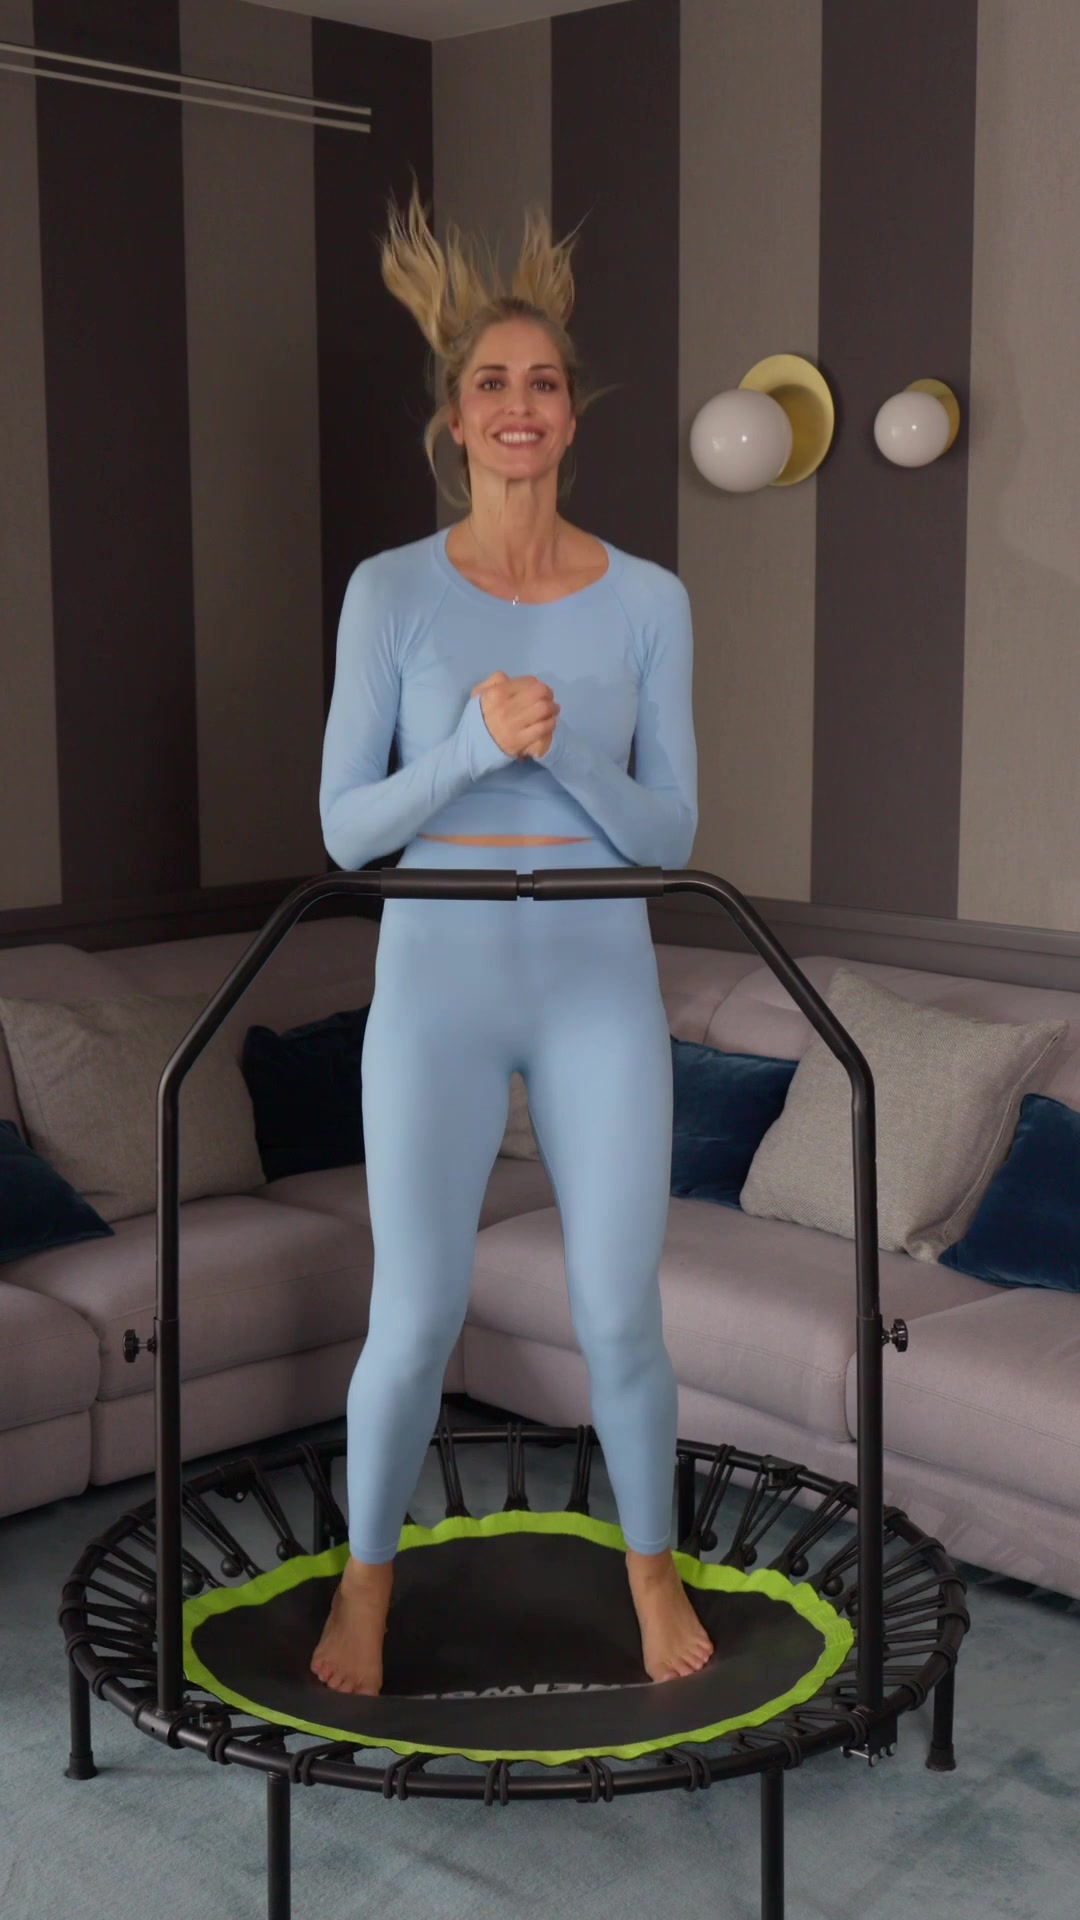
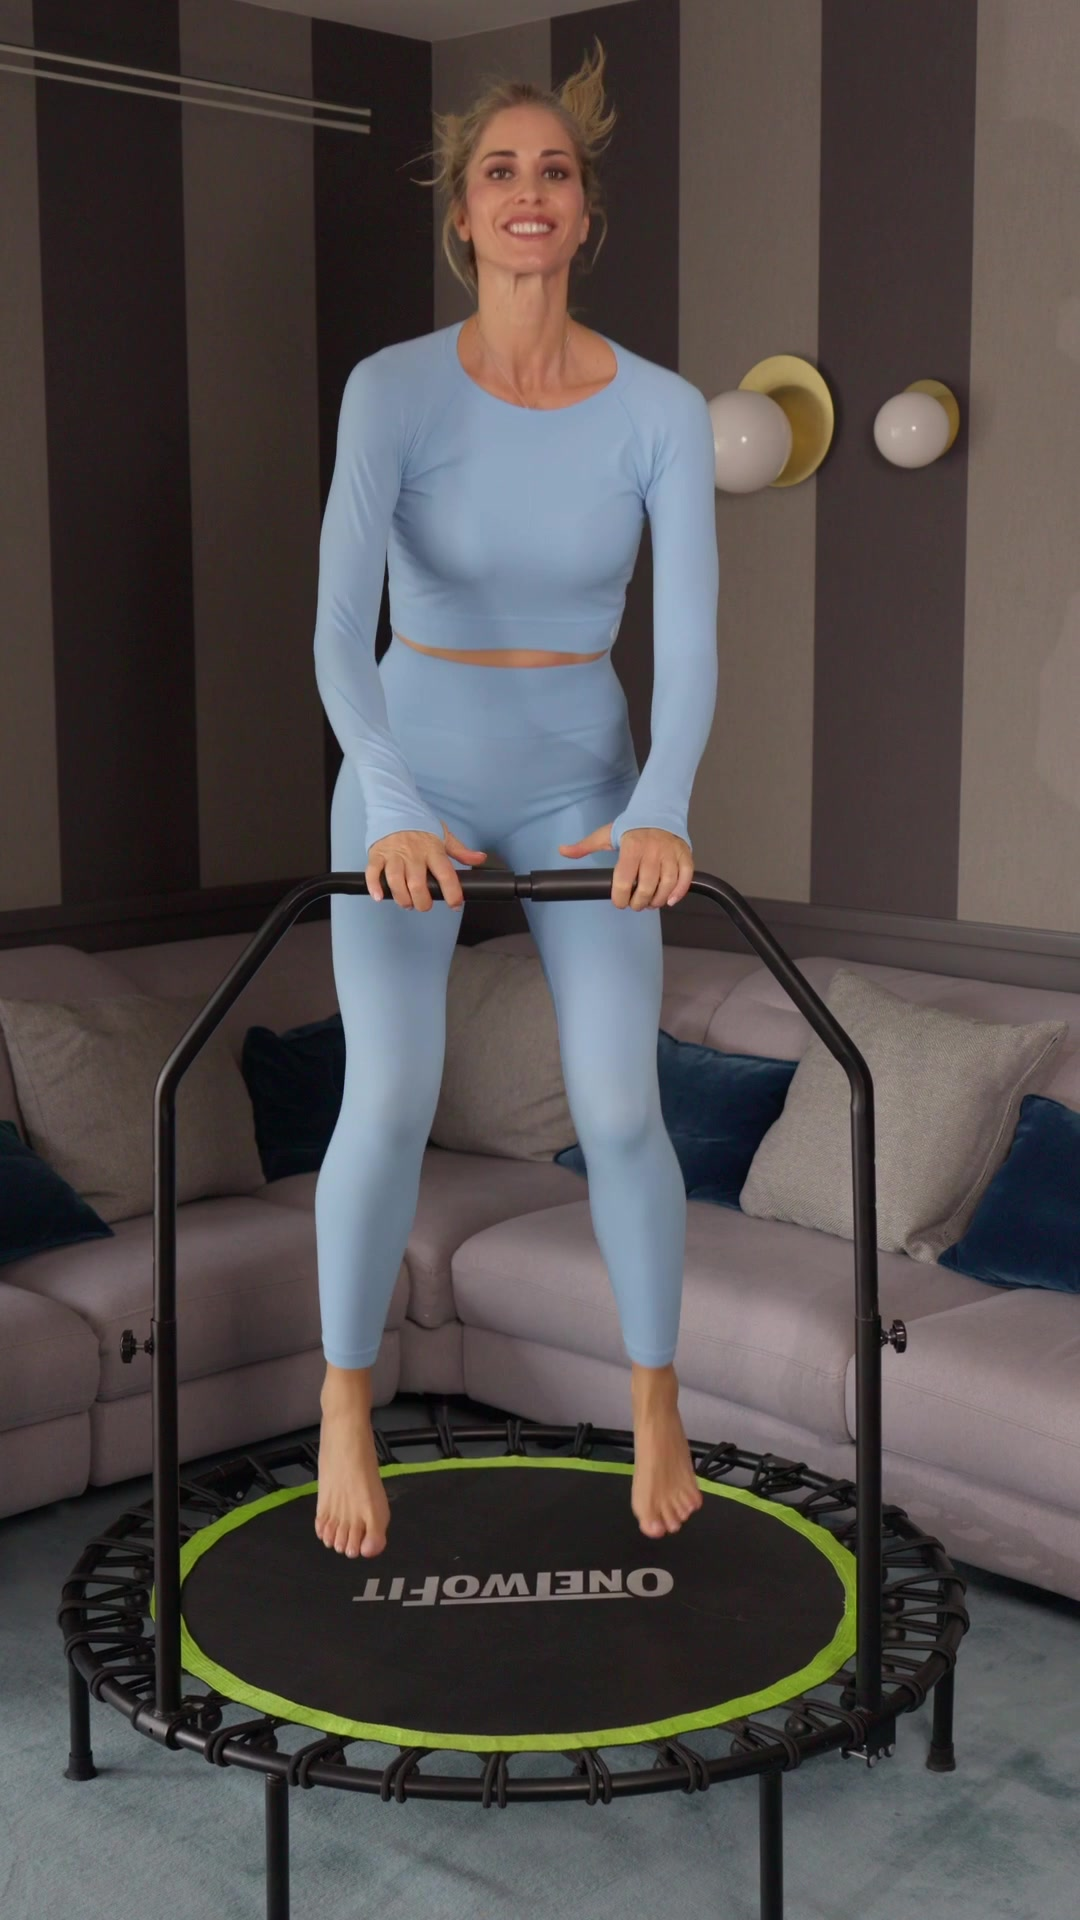
Cover: calmer frame, keep head inside grid crop; add blurred variant
Claude-Session: https://claude.ai/code/session_01RdyXZ9bSvZ2ZadRpYyWp9J

diff --git a/src/TrampolinoReel/Cover.tsx b/src/TrampolinoReel/Cover.tsx
@@ -8,13 +8,40 @@ const SHADOW =
 // (y 240-1680) so it survives the profile-grid crop.
 export const Cover: React.FC<{
   frameSrc: string;
+  // "photo": sharp frame, shrunk from the bottom so the head clears the
+  // grid crop, over a blurred copy. "blur": the whole frame blurred.
+  variant: "photo" | "blur";
+  photoScale: number;
   titleTop: string;
   titleBottom: string;
   subtitle: string;
-}> = ({ frameSrc, titleTop, titleBottom, subtitle }) => {
+}> = ({ frameSrc, variant, photoScale, titleTop, titleBottom, subtitle }) => {
+  const src = staticFile(frameSrc);
   return (
     <AbsoluteFill style={{ backgroundColor: "black" }}>
-      <Img src={staticFile(frameSrc)} />
+      <Img
+        src={src}
+        style={{
+          position: "absolute",
+          inset: 0,
+          filter: "blur(28px) brightness(0.8)",
+          transform: "scale(1.15)",
+        }}
+      />
+      {variant === "photo" ? (
+        <Img
+          src={src}
+          style={{
+            position: "absolute",
+            inset: 0,
+            transform: `scale(${photoScale})`,
+            transformOrigin: "50% 100%",
+            maskImage:
+              "linear-gradient(90deg, transparent, black 6%, black 94%, transparent), linear-gradient(180deg, transparent, black 5%)",
+            maskComposite: "intersect",
+          }}
+        />
+      ) : null}
       <AbsoluteFill
         style={{
           background:
@@ -24,7 +51,11 @@ export const Cover: React.FC<{
       <div
         style={{
           position: "absolute",
-          top: 1060,
+          top: variant === "photo" ? 1060 : 0,
+          bottom: variant === "photo" ? undefined : 0,
+          display: "flex",
+          flexDirection: "column",
+          justifyContent: "center",
           width: "100%",
           textAlign: "center",
           textTransform: "uppercase",

diff --git a/src/Root.tsx b/src/Root.tsx
@@ -49,6 +49,22 @@ export const RemotionRoot: React.FC = () => {
         height={1920}
         defaultProps={{
           frameSrc: "cover-frame.jpg",
+          variant: "photo" as const,
+          photoScale: 0.88,
+          titleTop: "10 minuti di rebounding",
+          titleBottom: "10 minuti di camminata",
+          subtitle: "Ecco perché",
+        }}
+      />
+      <Still
+        id="CopertinaSfocata"
+        component={Cover}
+        width={1080}
+        height={1920}
+        defaultProps={{
+          frameSrc: "cover-frame.jpg",
+          variant: "blur" as const,
+          photoScale: 1,
           titleTop: "10 minuti di rebounding",
           titleBottom: "10 minuti di camminata",
           subtitle: "Ecco perché",
